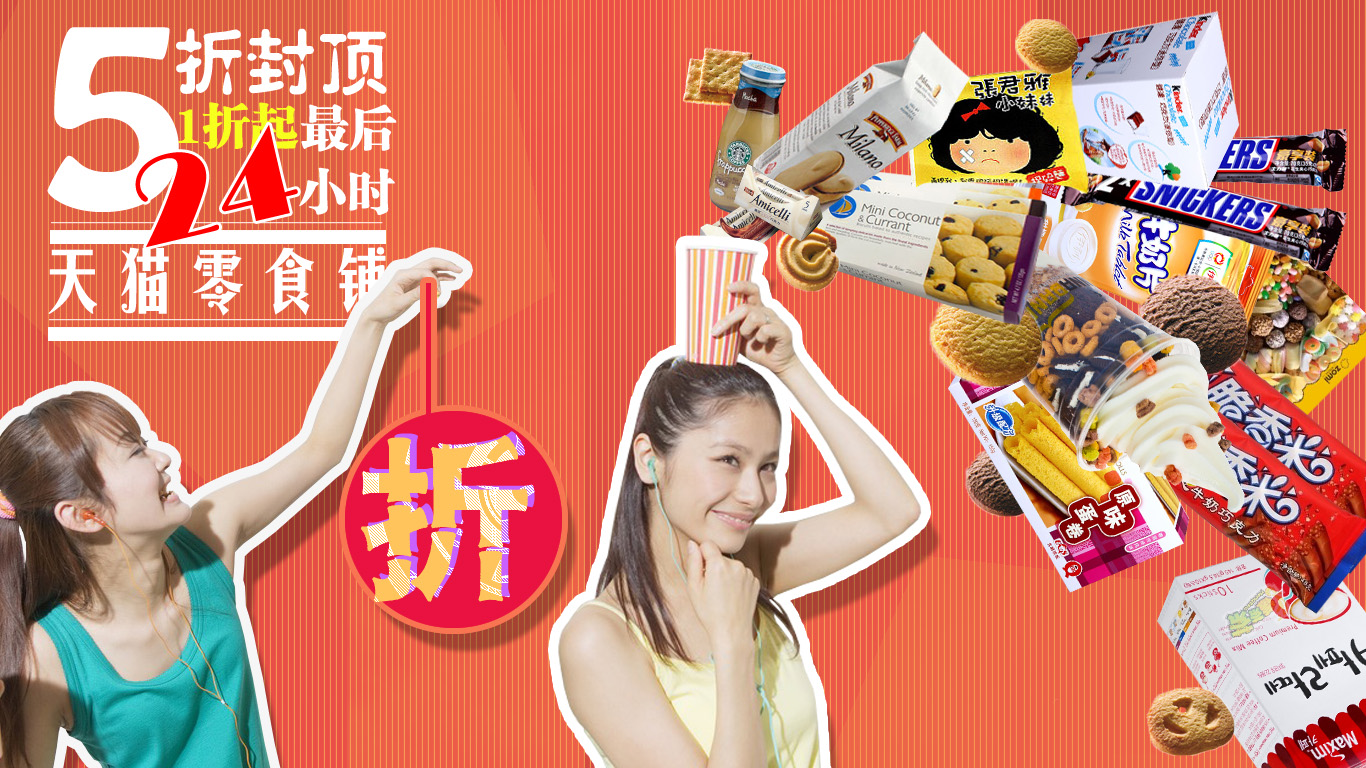
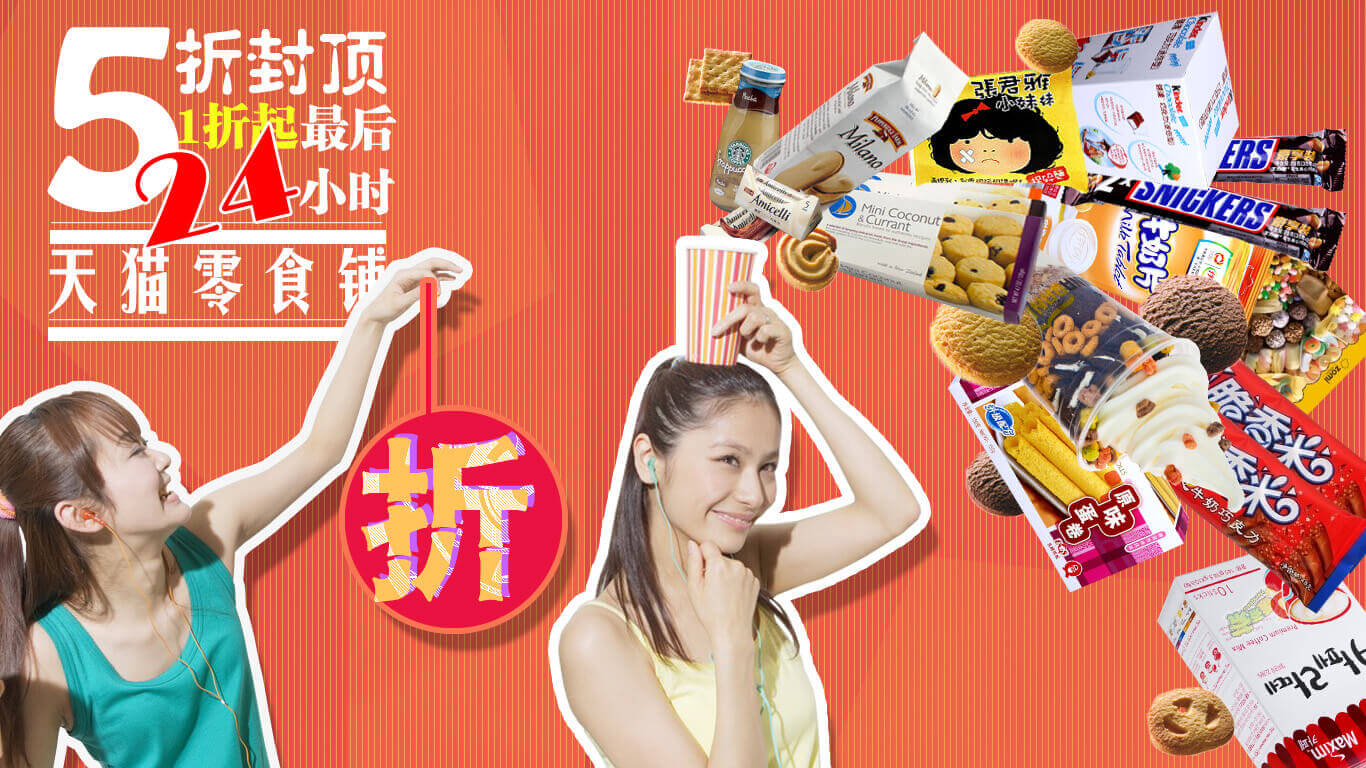
压缩图片，更新 README.md

diff --git a/css/style.css b/css/style.css
@@ -21,7 +21,6 @@ li{
     width:60%;
     height:55%;
     background:#333;
-    border-radius: 50px;
     overflow: hidden;
 }
 .pic{

diff --git a/README.md b/README.md
@@ -1,19 +1,3 @@
 # CSS轮播
 
-在线预览：https://gd4ark.github.io/CSS-Carousel/
-
-顾名思义，就是使用纯HTML+CSS开发图片轮播功能。
-
-**主要功能如下：**
-
-- 底部栏切换
-- 两侧按钮切换
-- 无缝轮播
-
-	*主要思路为：*
-
-	定义一堆`<input type="radio">`，通过CSS的兄弟选择器`~`来控制图片容器的`margin-left`值进行切换。
-
-	使用`label`标签代理`<input type="radio">`的点击。
-
-如果对你有帮助，欢迎Star！
+在线预览：http://4ark.me/css-carousel
